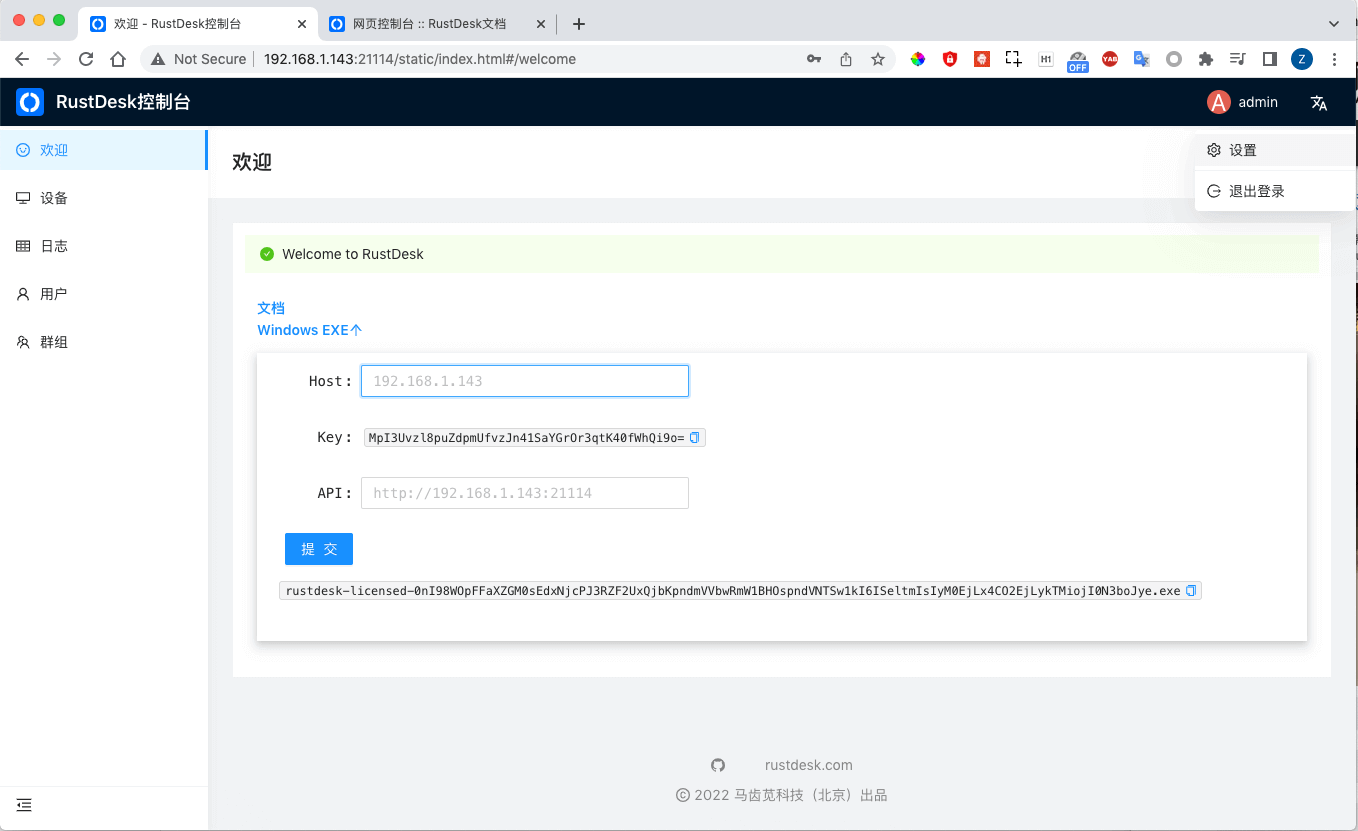
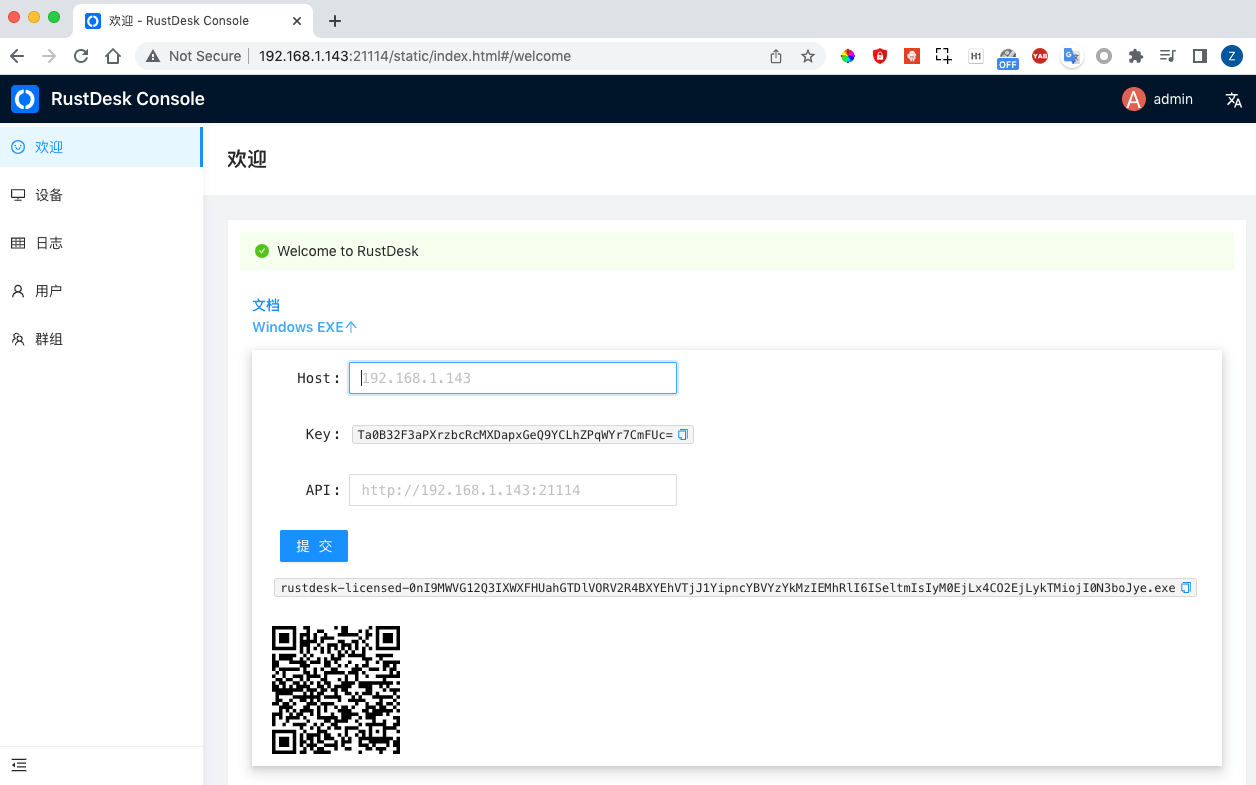
add qr in console home page

diff --git a/content/self-host/console/_index.en.md b/content/self-host/console/_index.en.md
@@ -16,7 +16,7 @@ As mentioned earlier, the default port of the web console is 21114. Enter `http:
 If you need https support, please install a web server such as `Nginx`.
 
 The default administrator username/password is admin/test1234, please be sure to change the password after logging in, select "Settings" in the account menu in the upper right corner to enter the password modification page, as shown in the following figure:
-![](/docs/en/self-host/console/images/console-home.png)
+![](/docs/en/self-host/console/images/console-home.png?v2)
 
 ## Windows EXE
 For Windows clients, you can leave out the custom server configuration and put the configuration information in the `RustDesk.exe` filename instead. As shown above, please go to the console welcome page and click on `Windows EXE`.

diff --git a/content/self-host/console/_index.zh-cn.md b/content/self-host/console/_index.zh-cn.md
@@ -16,7 +16,7 @@ weight: 30
 如果您需要https支持，请自行安装`Nginx`等网页服务器实现。
 
 默认管理员用户名/密码是admin/test1234，请务必在登录后修改密码，选择右上角账号菜单里的”设置“进入密码修改页面，如下图所示：
-![](/docs/en/self-host/console/images/console-home-zh.png)
+![](/docs/en/self-host/console/images/console-home-zh.png?v2)
 
 ## Windows EXE
 对于Windows客户端，您可以免填自定义服务器配置，而是将配置信息放在`RustDesk.exe`文件名中。如上图所示，请进入控制台欢迎页面，然后点击`Windows EXE`。

diff --git a/content/self-host/console/_index.zh-tw.md b/content/self-host/console/_index.zh-tw.md
@@ -16,7 +16,7 @@ weight: 30
 如果您需要https支持，請自行安裝`Nginx`等網頁服務器實現。
 
 默認管理員用戶名/密碼是admin/test1234，請務必在登錄後修改密碼，選擇右上角賬號菜單裡的”設置“進入密碼修改頁面，如下圖所示：
-![](/docs/en/self-host/console/images/console-home.png)
+![](/docs/en/self-host/console/images/console-home.png?v2)
 
 ## Windows EXE
 對於Windows客戶端，您可以免填自定義服務器配置，而是將配置信息放在`RustDesk.exe`文件名中。如上圖所示，請進入控制台歡迎頁面，然後點擊`Windows EXE`。
